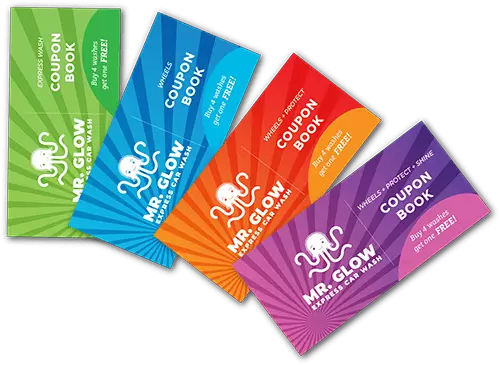
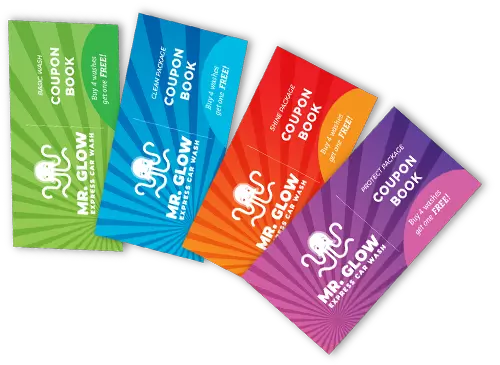
menu updates

diff --git a/wash-menu.html b/wash-menu.html
@@ -78,11 +78,23 @@ navname: Wash Menu
                         <div class="upgrades-body clearfix">
 
                                 <p>The upgrades below are available to add to your wash individually if the wash level you chose doesn't already include it.</p>
-
                             <div class="row">
                                 <div class="col-md-12 col-lg-6">
                                     <div class="upgrade-item-wrap clearfix">
-                                        <h3><span>$</span>6</h3><h4>Carnauba </br>Wax</h4>
+                                        <h3><span>$</span>6</h3><h4>Ceramic </br>Sealant</h4>
+                                    </div>
+                                </div>
+                                <div class="col-md-12 col-lg-6">
+                                    <div class="upgrade-item-wrap clearfix">
+                                        <h3><span>$</span>5</h3><h4>Bug </br>Buster</h4>
+                                    </div>
+                                </div>
+                                
+                            </div>
+                            <div class="row">
+                                <div class="col-md-12 col-lg-6">
+                                    <div class="upgrade-item-wrap clearfix">
+                                        <h3><span>$</span>5</h3><h4>Hot </br>Wax</h4>
                                     </div>
                                 </div>
                                 <div class="col-md-12 col-lg-6">
@@ -90,11 +102,12 @@ navname: Wash Menu
                                         <h3><span>$</span>4</h3><h4>Triple Foam </br>Protectant</h4>
                                     </div>
                                 </div>
+                                
                             </div>
                             <div class="row">
                                 <div class="col-md-12 col-lg-6">
                                     <div class="upgrade-item-wrap clearfix">
-                                        <h3><span>$</span>4</h3><h4>Vision </br>Clear</h4>
+                                        <h3><span>$</span>4</h3><h4>Rain-X </br>Repellent</h4>
                                     </div>
                                 </div>
                                 <div class="col-md-12 col-lg-6">
@@ -103,37 +116,28 @@ navname: Wash Menu
                                     </div>
                                 </div>
                             </div>
-                            <div class="row">
-                                <div class="col-md-12 col-lg-6">
-                                    <div class="upgrade-item-wrap clearfix">
-                                        <h3><span>$</span>5</h3><h4>Bug </br>Buster</h4>
-                                    </div>
-                                </div>
-                                <div class="col-md-12 col-lg-6">
-                                </div>
-                            </div>
+                            
                         </div>
                     </div>
                 </div>
                 <div class="col-sm-12 col-md-7">
                     <div class="pricing-box wps-wash">
                         <div class="pricing-box-header">
-                          <h2>Wheels + Protect + Shine</h2>
+                          <h2>Protect</h2>
                         </div>
                         <div class="pricing-box-body">
-                            <p>Everything included in <span class="emphasized">Wheels + Protect</span>, plus:</p>
+                            <p>Everything included in <span class="emphasized">Shine, Clean</span>, plus:</p>
                             <div class="row">
                                 <div class="col-sm-12 col-md-12 col-lg-5 wash-options">
                                   <ul class="pricing-box-list">
-                                    <li>Carnauba Wax</li>
-                                    <li>Vision Clear</li>
-                                    <li>Bug Buster</li>
+                                    <li>Rain-X Repellent</li>
+                                    <li>Ceramic Sealant</li>
                                   </ul>
                                 </div>
                             
                                 <div class="col-sm-12 col-md-12 col-lg-7 wash-price">
                                     <div class="price-wrap">
-                                        <h3>$18</h3>
+                                        <h3>$25</h3>
                                         <div class="pricing-box-price-month">
                                             <h4>$45/mo unlimited</h4>
                                         </div>
@@ -150,23 +154,21 @@ navname: Wash Menu
                     </div>
                     <div class="pricing-box wp-wash">
                         <div class="pricing-box-header">
-                          <h2>Wheels + Protect</h2>
+                          <h2>Shine</h2>
                         </div>
                         <div class="pricing-box-body">
-                            <p>Everything included in <span class="emphasized">Wheels</span>, plus:</p>
+                            <p>Everything included in <span class="emphasized">Clean</span>, plus:</p>
                             <div class="row">
                                 <div class="col-sm-12 col-md-12 col-lg-5 wash-options">
                                   <ul class="pricing-box-list">
-                                    <li>Triple Foam Protectant</li>
-                                    <li>Paint Sealer</li>
-                                    <li>High Velocity Rinse</li>
-                                    <li>Undercarriage Wash</li>
+                                    <li>Hot Wax</li>
+                                    <li>Tire Shine</li>
                                   </ul>
                                 </div>
                             
                                 <div class="col-sm-12 col-md-12 col-lg-7 wash-price">
                                     <div class="price-wrap">
-                                        <h3>$16</h3>
+                                        <h3>$20</h3>
                                         <div class="pricing-box-price-month">
                                             <h4>$35/mo unlimited</h4>
                                         </div>
@@ -183,24 +185,21 @@ navname: Wash Menu
                     </div>
                     <div class="pricing-box w-wash">
                         <div class="pricing-box-header">
-                          <h2>Wheels</h2>
+                          <h2>Clean</h2>
                         </div>
                         <div class="pricing-box-body">
-                            <p>Everything included in <span class="emphasized">Express Wash</span>, plus:</p>
+                            <p>Everything included in <span class="emphasized">Basic Wash</span>, plus:</p>
                             <div class="row">
                                 <div class="col-sm-12 col-md-12 col-lg-5 wash-options">
                                   <ul class="pricing-box-list">
-                                    <li>Tire Shine</li>
-                                    <li>Wheel Brite</li>
-                                    <li>Wheel Blaster</li>
-                                    <li>Bubble Bath</li>
-                                    <li>Flash Dry</li>
+                                    <li>Triple Foam Protectant</li>
+                                    <li>Wheel Cleaner</li>
                                   </ul>
                                 </div>
                             
                                 <div class="col-sm-12 col-md-12 col-lg-7 wash-price">
                                     <div class="price-wrap">
-                                        <h3>$14</h3>
+                                        <h3>$15</h3>
                                         <div class="pricing-box-price-month">
                                             <h4>$30/mo unlimited</h4>
                                         </div>
@@ -217,7 +216,7 @@ navname: Wash Menu
                     </div>
                     <div class="pricing-box express-wash">
                         <div class="pricing-box-header">
-                          <h2>Express Wash</h2>
+                          <h2>Basic Wash</h2>
                         </div>
                         <div class="pricing-box-body">
                             <div class="row">

diff --git a/_site/wash-menu.html b/_site/wash-menu.html
@@ -189,11 +189,23 @@
                         <div class="upgrades-body clearfix">
 
                                 <p>The upgrades below are available to add to your wash individually if the wash level you chose doesn't already include it.</p>
-
                             <div class="row">
                                 <div class="col-md-12 col-lg-6">
                                     <div class="upgrade-item-wrap clearfix">
-                                        <h3><span>$</span>6</h3><h4>Carnauba </br>Wax</h4>
+                                        <h3><span>$</span>6</h3><h4>Ceramic </br>Sealant</h4>
+                                    </div>
+                                </div>
+                                <div class="col-md-12 col-lg-6">
+                                    <div class="upgrade-item-wrap clearfix">
+                                        <h3><span>$</span>5</h3><h4>Bug </br>Buster</h4>
+                                    </div>
+                                </div>
+                                
+                            </div>
+                            <div class="row">
+                                <div class="col-md-12 col-lg-6">
+                                    <div class="upgrade-item-wrap clearfix">
+                                        <h3><span>$</span>5</h3><h4>Hot </br>Wax</h4>
                                     </div>
                                 </div>
                                 <div class="col-md-12 col-lg-6">
@@ -201,11 +213,12 @@
                                         <h3><span>$</span>4</h3><h4>Triple Foam </br>Protectant</h4>
                                     </div>
                                 </div>
+                                
                             </div>
                             <div class="row">
                                 <div class="col-md-12 col-lg-6">
                                     <div class="upgrade-item-wrap clearfix">
-                                        <h3><span>$</span>4</h3><h4>Vision </br>Clear</h4>
+                                        <h3><span>$</span>4</h3><h4>Rain-X </br>Repellent</h4>
                                     </div>
                                 </div>
                                 <div class="col-md-12 col-lg-6">
@@ -214,37 +227,28 @@
                                     </div>
                                 </div>
                             </div>
-                            <div class="row">
-                                <div class="col-md-12 col-lg-6">
-                                    <div class="upgrade-item-wrap clearfix">
-                                        <h3><span>$</span>5</h3><h4>Bug </br>Buster</h4>
-                                    </div>
-                                </div>
-                                <div class="col-md-12 col-lg-6">
-                                </div>
-                            </div>
+                            
                         </div>
                     </div>
                 </div>
                 <div class="col-sm-12 col-md-7">
                     <div class="pricing-box wps-wash">
                         <div class="pricing-box-header">
-                          <h2>Wheels + Protect + Shine</h2>
+                          <h2>Protect</h2>
                         </div>
                         <div class="pricing-box-body">
-                            <p>Everything included in <span class="emphasized">Wheels + Protect</span>, plus:</p>
+                            <p>Everything included in <span class="emphasized">Shine, Clean</span>, plus:</p>
                             <div class="row">
                                 <div class="col-sm-12 col-md-12 col-lg-5 wash-options">
                                   <ul class="pricing-box-list">
-                                    <li>Carnauba Wax</li>
-                                    <li>Vision Clear</li>
-                                    <li>Bug Buster</li>
+                                    <li>Rain-X Repellent</li>
+                                    <li>Ceramic Sealant</li>
                                   </ul>
                                 </div>
                             
                                 <div class="col-sm-12 col-md-12 col-lg-7 wash-price">
                                     <div class="price-wrap">
-                                        <h3>$18</h3>
+                                        <h3>$25</h3>
                                         <div class="pricing-box-price-month">
                                             <h4>$45/mo unlimited</h4>
                                         </div>
@@ -261,23 +265,21 @@
                     </div>
                     <div class="pricing-box wp-wash">
                         <div class="pricing-box-header">
-                          <h2>Wheels + Protect</h2>
+                          <h2>Shine</h2>
                         </div>
                         <div class="pricing-box-body">
-                            <p>Everything included in <span class="emphasized">Wheels</span>, plus:</p>
+                            <p>Everything included in <span class="emphasized">Clean</span>, plus:</p>
                             <div class="row">
                                 <div class="col-sm-12 col-md-12 col-lg-5 wash-options">
                                   <ul class="pricing-box-list">
-                                    <li>Triple Foam Protectant</li>
-                                    <li>Paint Sealer</li>
-                                    <li>High Velocity Rinse</li>
-                                    <li>Undercarriage Wash</li>
+                                    <li>Hot Wax</li>
+                                    <li>Tire Shine</li>
                                   </ul>
                                 </div>
                             
                                 <div class="col-sm-12 col-md-12 col-lg-7 wash-price">
                                     <div class="price-wrap">
-                                        <h3>$16</h3>
+                                        <h3>$20</h3>
                                         <div class="pricing-box-price-month">
                                             <h4>$35/mo unlimited</h4>
                                         </div>
@@ -294,24 +296,21 @@
                     </div>
                     <div class="pricing-box w-wash">
                         <div class="pricing-box-header">
-                          <h2>Wheels</h2>
+                          <h2>Clean</h2>
                         </div>
                         <div class="pricing-box-body">
-                            <p>Everything included in <span class="emphasized">Express Wash</span>, plus:</p>
+                            <p>Everything included in <span class="emphasized">Basic Wash</span>, plus:</p>
                             <div class="row">
                                 <div class="col-sm-12 col-md-12 col-lg-5 wash-options">
                                   <ul class="pricing-box-list">
-                                    <li>Tire Shine</li>
-                                    <li>Wheel Brite</li>
-                                    <li>Wheel Blaster</li>
-                                    <li>Bubble Bath</li>
-                                    <li>Flash Dry</li>
+                                    <li>Triple Foam Protectant</li>
+                                    <li>Wheel Cleaner</li>
                                   </ul>
                                 </div>
                             
                                 <div class="col-sm-12 col-md-12 col-lg-7 wash-price">
                                     <div class="price-wrap">
-                                        <h3>$14</h3>
+                                        <h3>$15</h3>
                                         <div class="pricing-box-price-month">
                                             <h4>$30/mo unlimited</h4>
                                         </div>
@@ -328,7 +327,7 @@
                     </div>
                     <div class="pricing-box express-wash">
                         <div class="pricing-box-header">
-                          <h2>Express Wash</h2>
+                          <h2>Basic Wash</h2>
                         </div>
                         <div class="pricing-box-body">
                             <div class="row">

diff --git a/specials-and-deals.html b/specials-and-deals.html
@@ -133,7 +133,7 @@ navname: Specials & Deals
                                     <img src="{{ site.baseurl }}/assets/images/enter-to-win.svg" alt="Enter to Win">
                                     <div class="feature-desc">
                                         <h6>+ Enter to Win</h6>
-                                        <p>An Annual Glow N’ Go <span>WHEELS + PROTECT + SHINE</span> membership</p>
+                                        <p>An Annual Glow N’ Go <span>PROTECT</span> membership ($540 value)</p>
                                     </div>
                                 </div>
                             </div>

diff --git a/_site/specials-and-deals.html b/_site/specials-and-deals.html
@@ -244,7 +244,7 @@
                                     <img src="/assets/images/enter-to-win.svg" alt="Enter to Win">
                                     <div class="feature-desc">
                                         <h6>+ Enter to Win</h6>
-                                        <p>An Annual Glow N’ Go <span>WHEELS + PROTECT + SHINE</span> membership</p>
+                                        <p>An Annual Glow N’ Go <span>PROTECT</span> membership ($540 value)</p>
                                     </div>
                                 </div>
                             </div>
